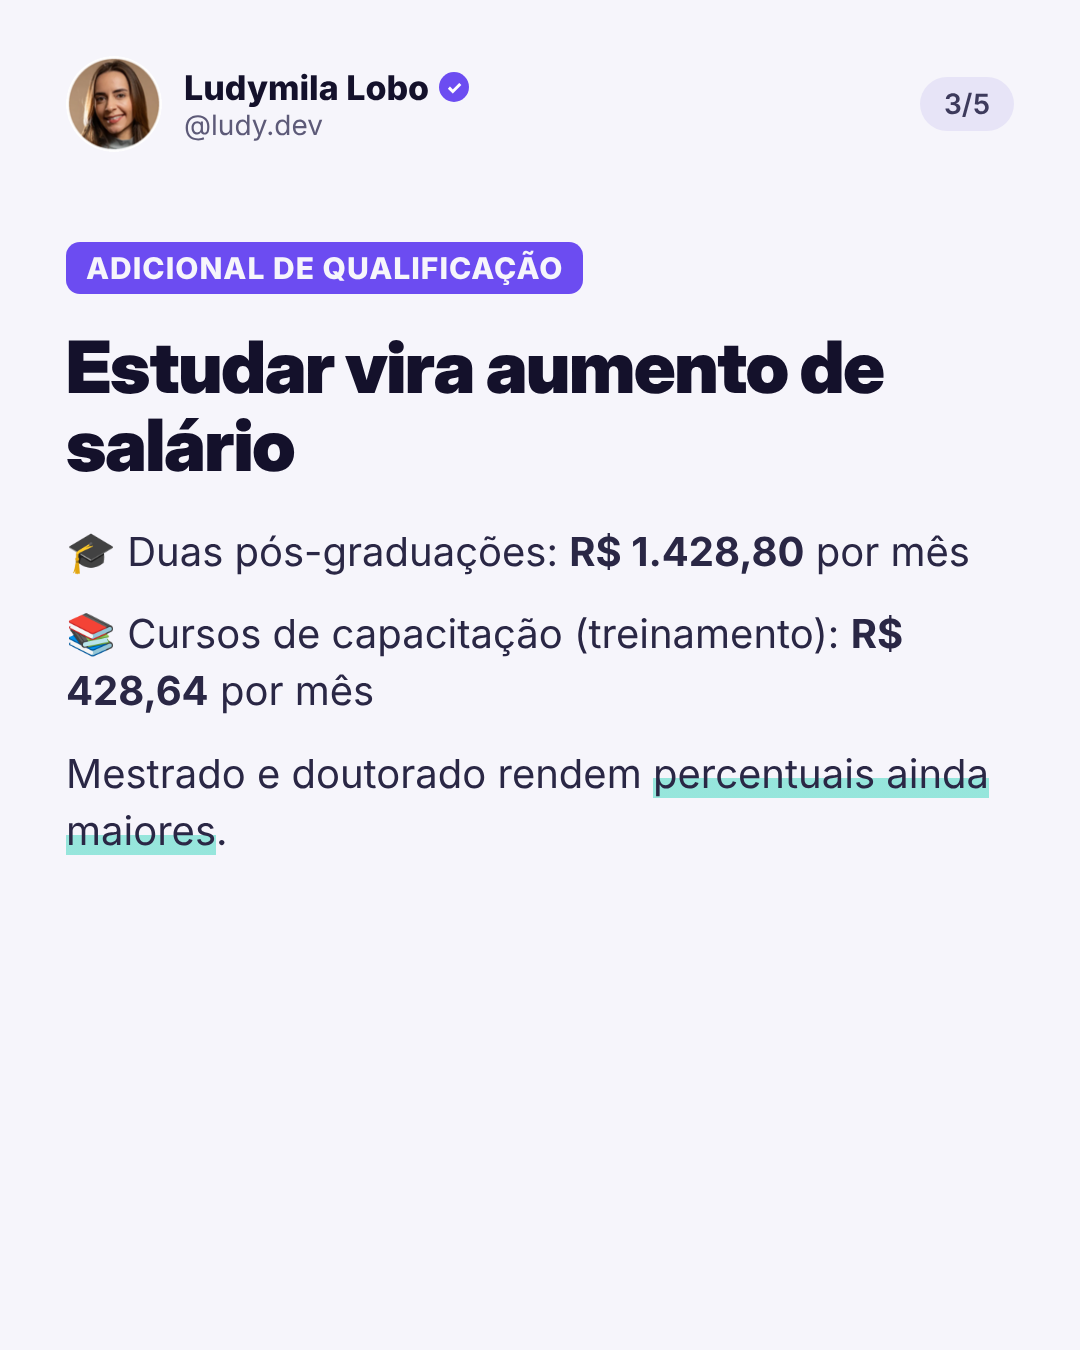
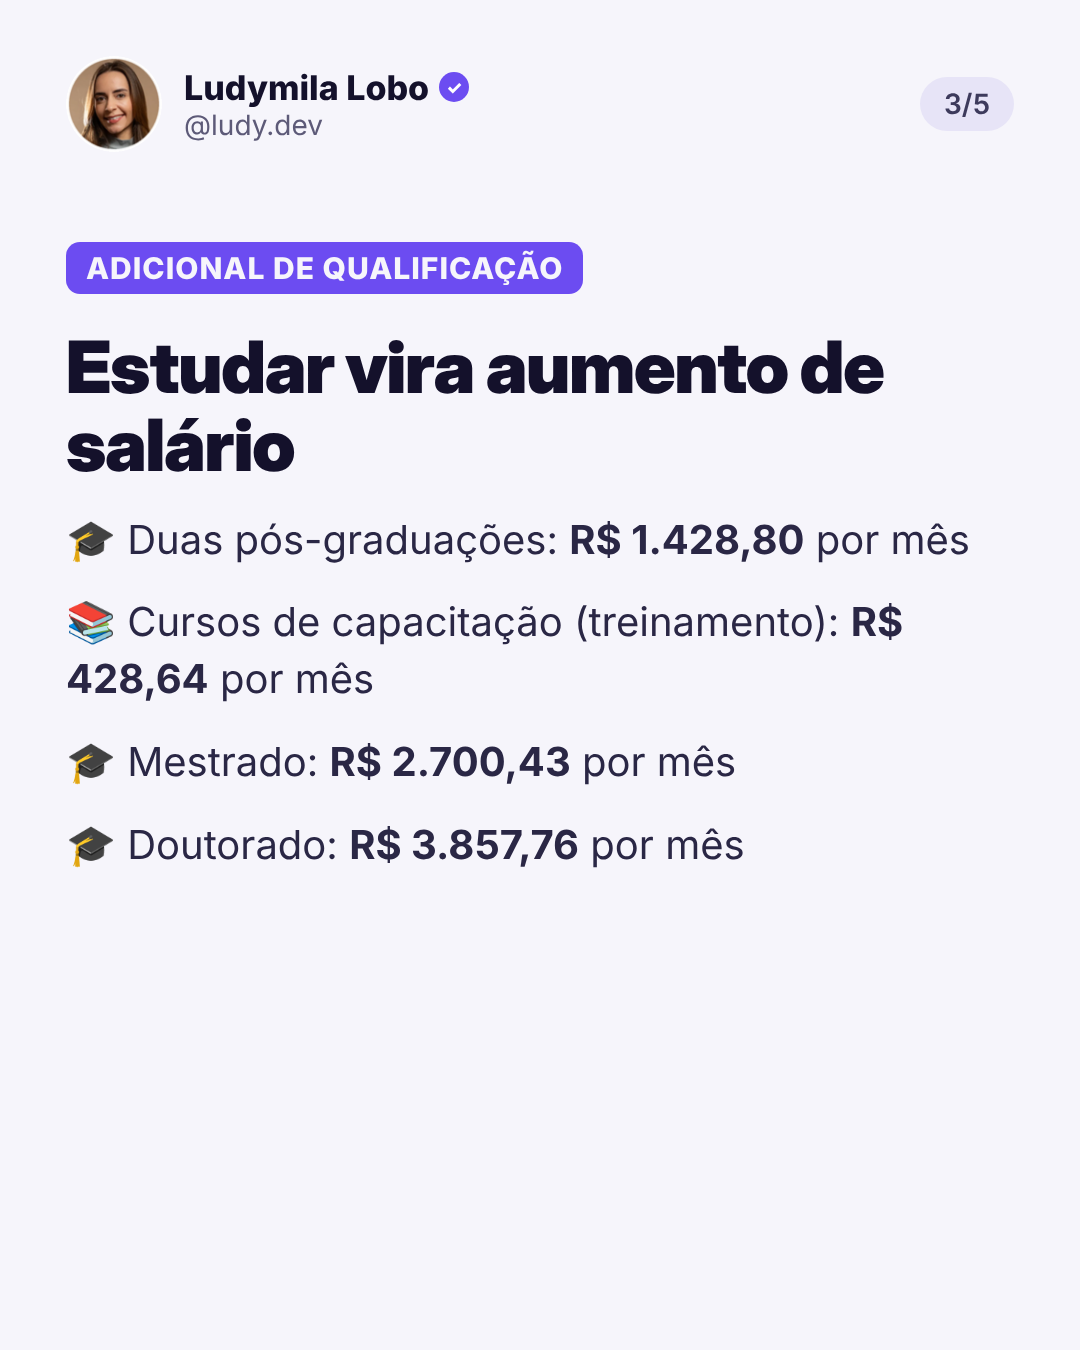
Auxílios: mestrado, doutorado e auxílio-creche
Claude-Session: https://claude.ai/code/session_01PAmMNyTervBqrWDZUP7Uz7

Changed region(s): [[0.0611, 0.3733, 0.9167, 0.6533], [0.7944, 0.4356, 0.825, 0.4978]]

diff --git a/_ferramentas/posts_2010.py b/_ferramentas/posts_2010.py
@@ -17,8 +17,8 @@ T2 = 5
 p2 = [
  page_b('<h1>O salário não é tudo: os <span class="v">auxílios</span> de quem trabalha no Judiciário federal.</h1><div class="lead">Valores de referência do Poder Judiciário da União (TRTs, TREs, TST etc.) →</div>', 1, T2),
  page_b('<span class="tag">AUXÍLIO-ALIMENTAÇÃO</span><h2>R$ 1.860,51 por mês</h2><p>Pago a todos os servidores, independentemente do cargo.</p>', 2, T2),
- page_b('<span class="tag">ADICIONAL DE QUALIFICAÇÃO</span><h2>Estudar vira aumento de salário</h2><p>🎓 Duas pós-graduações: <b>R$ 1.428,80</b> por mês</p><p>📚 Cursos de capacitação (treinamento): <b>R$ 428,64</b> por mês</p><p>Mestrado e doutorado rendem <span class="hl">percentuais ainda maiores</span>.</p>', 3, T2),
- page_b('<span class="tag">AUXÍLIO-SAÚDE</span><h2>Até R$ 900,00 por mês</h2><p>Ajuda no custo do plano de saúde. E ainda existe o <b>auxílio-creche</b> para quem tem filhos pequenos.</p>', 4, T2),
+ page_b('<span class="tag">ADICIONAL DE QUALIFICAÇÃO</span><h2 style="margin-bottom:28px">Estudar vira aumento de salário</h2><p>🎓 Duas pós-graduações: <b>R$ 1.428,80</b> por mês</p><p>📚 Cursos de capacitação (treinamento): <b>R$ 428,64</b> por mês</p><p>🎓 Mestrado: <b>R$ 2.700,43</b> por mês</p><p>🎓 Doutorado: <b>R$ 3.857,76</b> por mês</p>', 3, T2),
+ page_b('<span class="tag">AUXÍLIO-SAÚDE</span><h2>Até R$ 900,00 por mês</h2><p>Ajuda no custo do plano de saúde.</p><span class="tag" style="margin-top:30px">AUXÍLIO-CRECHE</span><h2>R$ 1.288,47 por mês</h2><p>Por filho pequeno, como assistência pré-escolar.</p>', 4, T2),
  page_b('<h2>Somando só esses itens:</h2><div class="box"><b>R$ 4.617,95 por mês</b> além do vencimento, no exemplo de um analista com 2 pós.<br><br>Me siga para mais dicas de concursos e carreira de TI.</div>', 5, T2),
 ]
 
